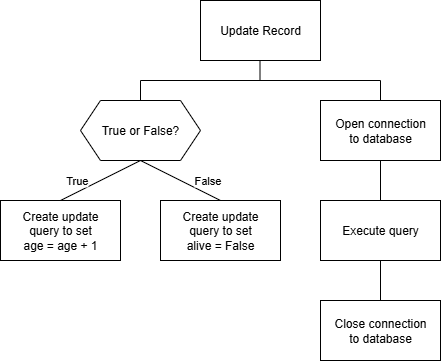
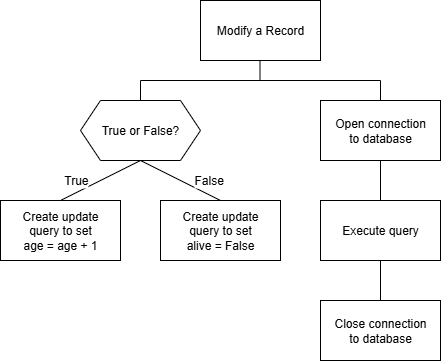
Updated

Changed region(s): [[0.4717, 0.0609, 0.7075, 0.1219], [0.4422, 0.4875, 0.5306, 0.518], [0.1474, 0.4875, 0.2063, 0.518]]

diff --git a/ah-cs/sdd/AH-SDD-Animals/index6.md b/ah-cs/sdd/AH-SDD-Animals/index6.md
@@ -80,7 +80,7 @@ Record added to Animal table.
 #### Celebrate a birthday
 
 ```
-Celebrate a birthday
+Celebrate a Birthday
 --------------------
 
 Which animal has a birthday? Lassie
@@ -97,7 +97,6 @@ Register a Death
 ----------------
 
 Which animal died? Lassie
-No animal called Lassie was found.
 
 Record modified in Animal table.
 Lassie's death has been registered.
